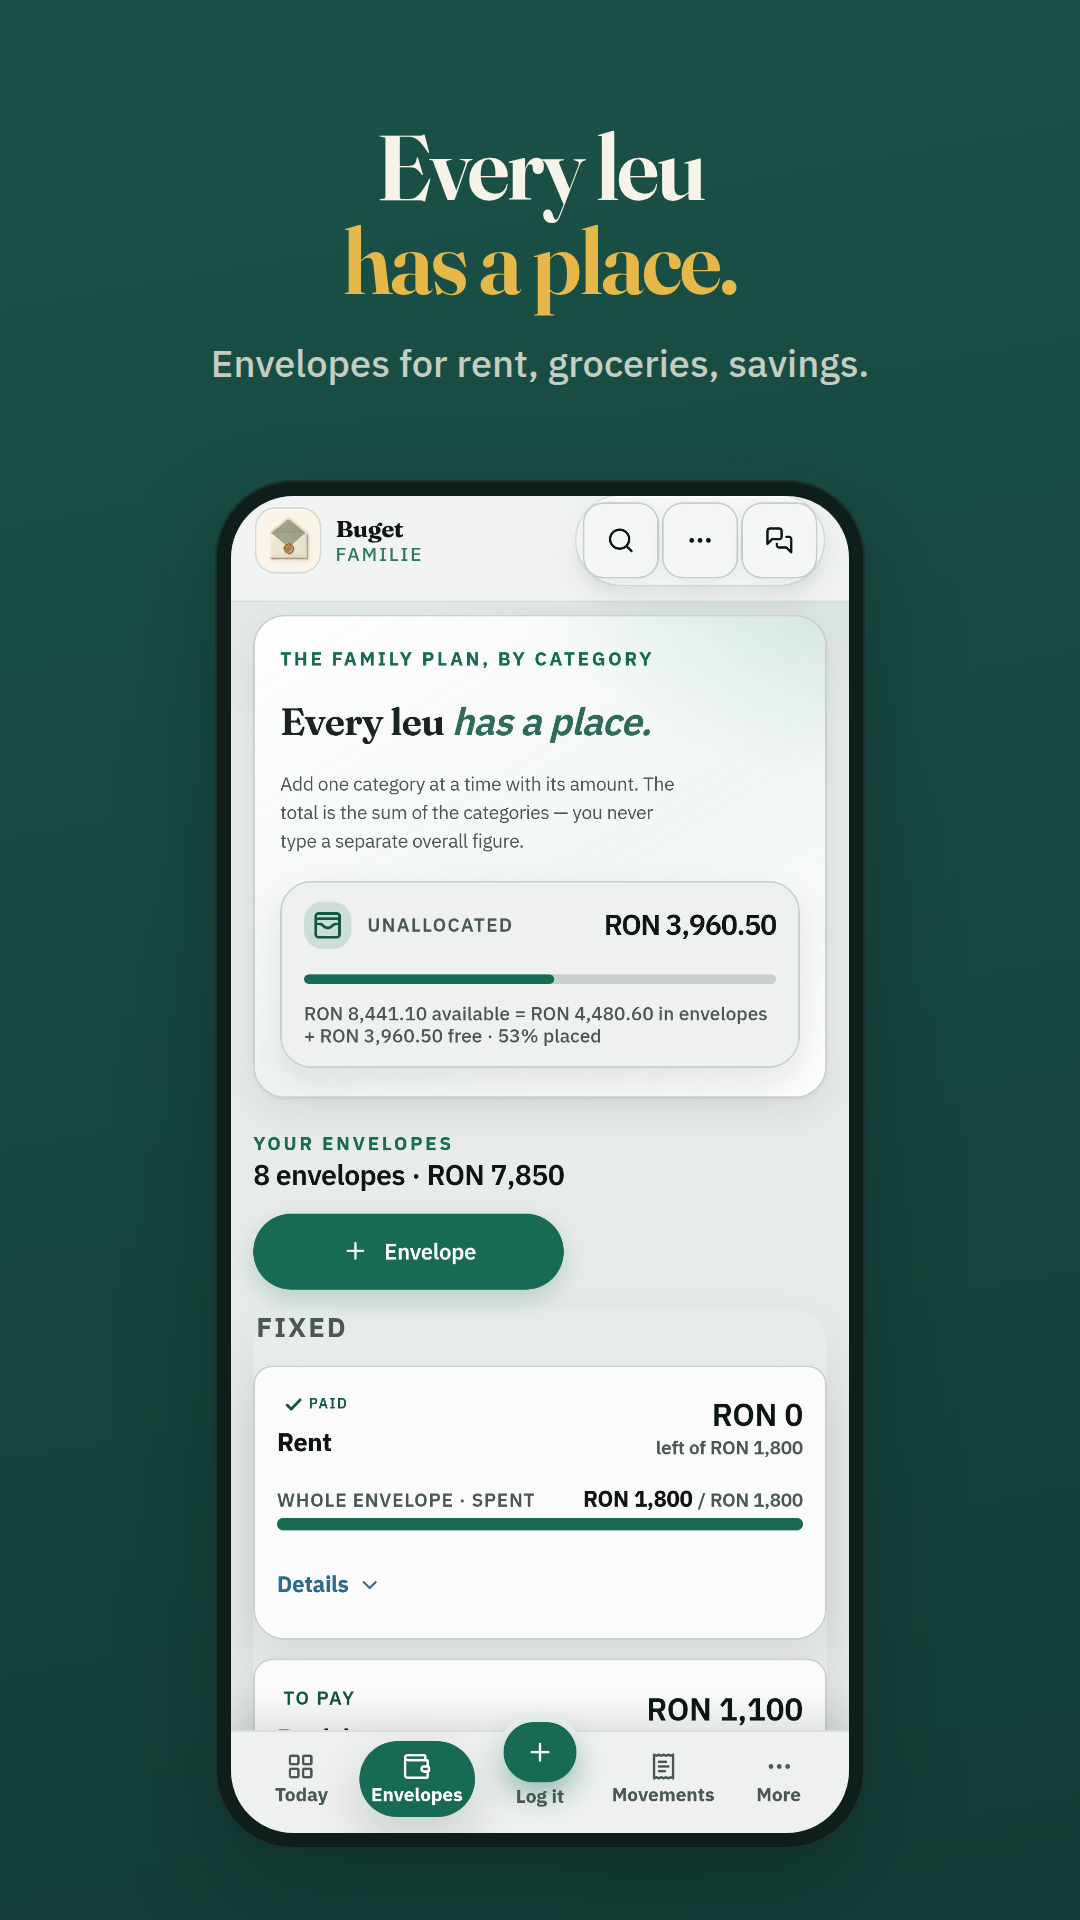
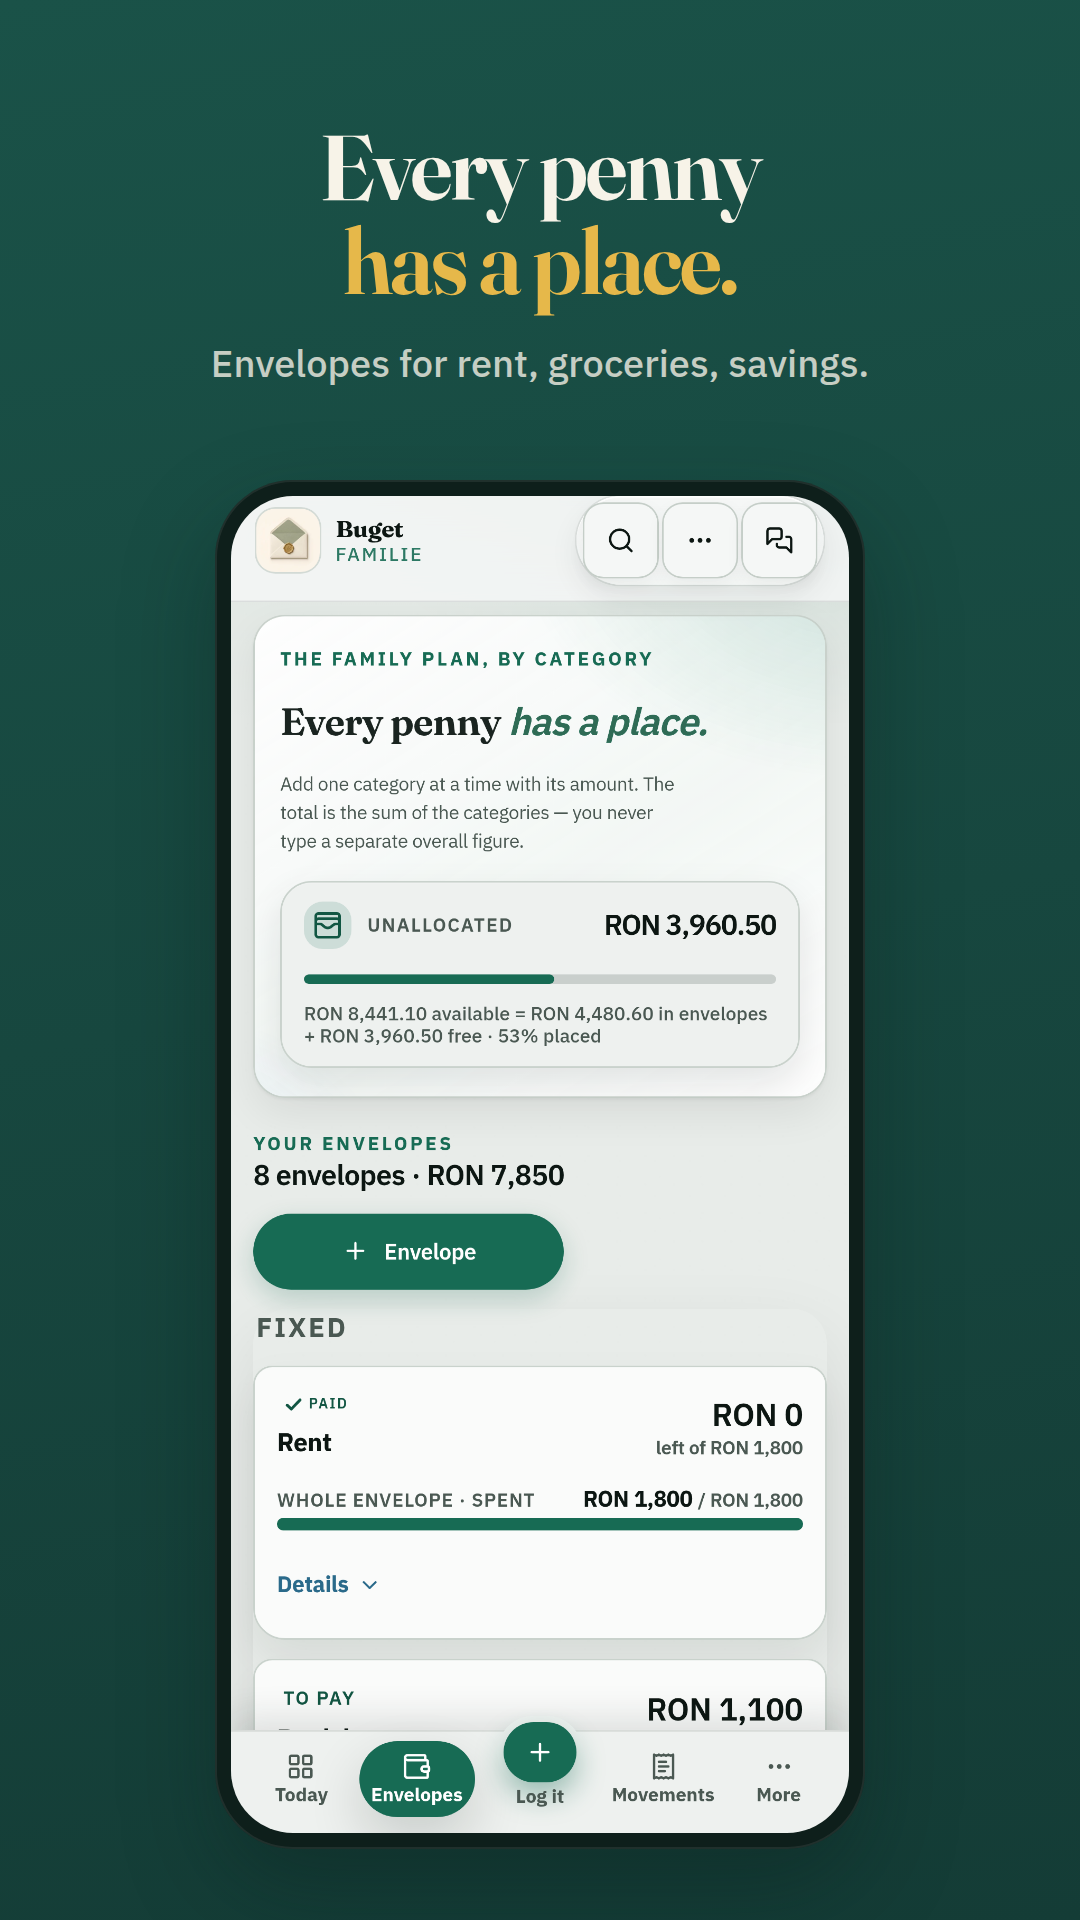
„Fiecare ban” în loc de „Fiecare leu”, în aplicație și pe Play
Textul nu mai depinde de monedă, ca fișa să meargă și în alte țări.
În engleză: „Every penny”. Capturile și graficul Play sunt refăcute.

Claude-Session: https://claude.ai/code/session_012nvvSBWT37UrmTh759jq6t

Changed region(s): [[0.3056, 0.0625, 0.7028, 0.125], [0.3667, 0.375, 0.6417, 0.4062]]

diff --git a/client/src/lib/i18n-en.ts b/client/src/lib/i18n-en.ts
@@ -445,10 +445,10 @@ export const en: Record<string, string> = {
   "totul are un loc": "everything has a place",
   "Cât aplicația rămâne deschisă pe orice telefon din familie, mișcările apar automat pe toate celelalte în câteva secunde.": "As long as the app is open on any phone in the family, movements appear on all the others within seconds.",
   "Cât de sigur este bilanțul?": "How reliable is the summary?",
-  "Cât face un leu": "What a leu is worth",
+  "Cât face un leu": "What a penny is worth",
   "Cât mai e în fiecare loc.": "How much is left in each place.",
   "Cât mai ține ziua.": "How far the day still stretches.",
-  "Cât stă un leu înainte să plece": "How long a leu stays before it leaves",
+  "Cât stă un leu înainte să plece": "How long a penny stays before it leaves",
   "DE CONSTRUIT": "TO BUILD",
   "DE PLĂTIT": "TO PAY",
   "DE REVIZUIT": "TO REVIEW",
@@ -1263,7 +1263,7 @@ export const en: Record<string, string> = {
   "Urmărește scadențele": "Track the due dates",
   "Venit înregistrat luna asta": "Income recorded this month",
   "Venit înregistrat în ciclu": "Income recorded in this pay cycle",
-  "Fiecare leu": "Every leu",
+  "Fiecare ban": "Every penny",
   "{count} configurate": "{count} configured",
   "PREVIZUALIZARE": "PREVIEW",
   "rămași din {amount}": "left of {amount}",
@@ -1963,7 +1963,7 @@ export const en: Record<string, string> = {
   "Ritmul": "The pace",
   "ACUM · TRANȘA S{index}": "NOW · TRANCHE W{index}",
   "CATEGORII": "CATEGORIES",
-  "Unde merge fiecare leu": "Where every leu goes",
+  "Unde merge fiecare leu": "Where every penny goes",
   "PDF plan": "Plan PDF",
   "REZULTATUL LUNII · {perspective}": "MONTH RESULT · {perspective}",
   "MANUAL RAPID": "QUICK MANUAL",
@@ -2664,7 +2664,7 @@ export const en: Record<string, string> = {
   "Plusul de pe Astăzi sau un bon în De verificat. Nu trebuie să fie perfect — trebuie să fie pe telefon.": "The plus on Today or a receipt in Review. It does not need to be perfect — it needs to be on the phone.",
   "Notează, pe Astăzi, sau un bon în De verificat. Nu trebuie să fie perfect — trebuie să fie pe telefon.": "Tap Notează on Today, or a receipt in Review. It does not need to be perfect — it needs to be on the phone.",
   "2 · PLICURI": "2 · ENVELOPES",
-  "Dă fiecărui leu un plic.": "Give every leu an envelope.",
+  "Dă fiecărui leu un plic.": "Give every penny an envelope.",
   "În Plan, sumele pe categorii îți arată ritmul până la salariu. Ajustezi oricând.": "In Plan, category amounts show your pace until payday. You can adjust anytime.",
   "3 · SYNC (OPȚIONAL)": "3 · SYNC (OPTIONAL)",
   "Două telefoane, o cameră a familiei.": "Two phones, one family room.",
@@ -2863,7 +2863,7 @@ export const en: Record<string, string> = {
 
   "liberi din": "free of",
   "Din {balance} ai deja {reserved} în plicuri sau scadențe; liberi rămân {free}.": "Of {balance} you already hold {reserved} in envelopes or due payments; {free} stays free.",
-  "Toți banii din această sursă sunt deja repartizați.": "Every leu in this source is already allocated.",
+  "Toți banii din această sursă sunt deja repartizați.": "All the money in this source is already allocated.",
   "Mută bani între săptămâni": "Move money between weeks",
   "Sensul mutării": "Direction of the move",
   "Adu în S{index}": "Bring into W{index}",

diff --git a/client/src/components/PlanStudio.tsx b/client/src/components/PlanStudio.tsx
@@ -444,7 +444,7 @@ export function PlanStudio({ data, onChange, simpleMode = false }: { data: AppDa
     <CycleClosePanel data={data} onChange={onChange} />
     <EnvelopeConflictBanner data={data} onChange={onChange} />
     <header className="bf-plan-studio-header bf-plan-hero-glass">
-      <div className="bf-plan-hero-copy"><p className="bf-kicker">{t("PLANUL FAMILIEI, PE CATEGORII")}</p><h1>{t("Fiecare leu")} <em>{t("are un loc.")}</em></h1><p>{t("Adaugă câte o categorie cu suma ei. Totalul e suma categoriilor — nu introduci nicio sumă generală separat.")}</p></div>
+      <div className="bf-plan-hero-copy"><p className="bf-kicker">{t("PLANUL FAMILIEI, PE CATEGORII")}</p><h1>{t("Fiecare ban")} <em>{t("are un loc.")}</em></h1><p>{t("Adaugă câte o categorie cu suma ei. Totalul e suma categoriilor — nu introduci nicio sumă generală separat.")}</p></div>
       <div className="bf-plan-header-stat"><span><WalletCards size={20} /></span><small>{t("NEREPARTIZAȚI")}</small><b>{money(unrepartized)}</b>
         {/* D12: cele trei cifre se leagă: disponibili = în plicuri (și scadențe) + liberi. */}
         {availableSources > 0 && <>

diff --git a/docs/play-store-assets/SCREENSHOTS.md b/docs/play-store-assets/SCREENSHOTS.md
@@ -11,7 +11,7 @@
 |---|---|---|---|
 | 1 | `01-today` | Cât poți cheltui azi | What you can spend today |
 | 2 | `02-split` | A intrat salariul? Se împarte singur. | Payday? It splits itself. |
-| 3 | `03-plan` | Fiecare leu are un loc. | Every leu has a place. |
+| 3 | `03-plan` | Fiecare ban are un loc. | Every penny has a place. |
 | 4 | `04-needs` | Două salarii, zile diferite. | Two salaries, different days. |
 | 5 | `05-add` | Notezi în 3 secunde. | Log it in 3 seconds. |
 | 6 | `06-journal` | Toate mișcările familiei. | Every family transaction. |

diff --git a/docs/PLAY_LISTING.md b/docs/PLAY_LISTING.md
@@ -29,7 +29,7 @@ Plicuri pe ciclu de salariu, sync familie criptat — fără login bancar.
 ## Descriere completă
 
 ```
-Buget Familie este registrul unei gospodării românești: fiecare leu are un loc până la următorul venit.
+Buget Familie este registrul unei gospodării românești: fiecare ban are un loc până la următorul venit.
 
 De ce e altfel
 • Plicuri pe categorie, membru și sursă — card, cash, bonuri de masă, transfer comun.
